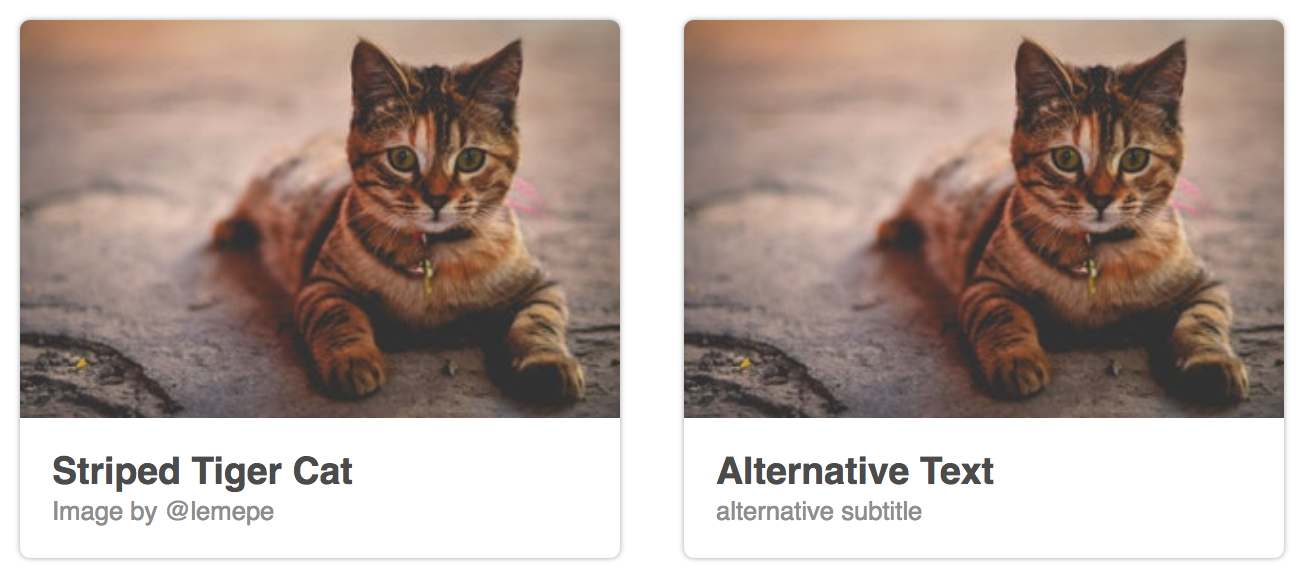
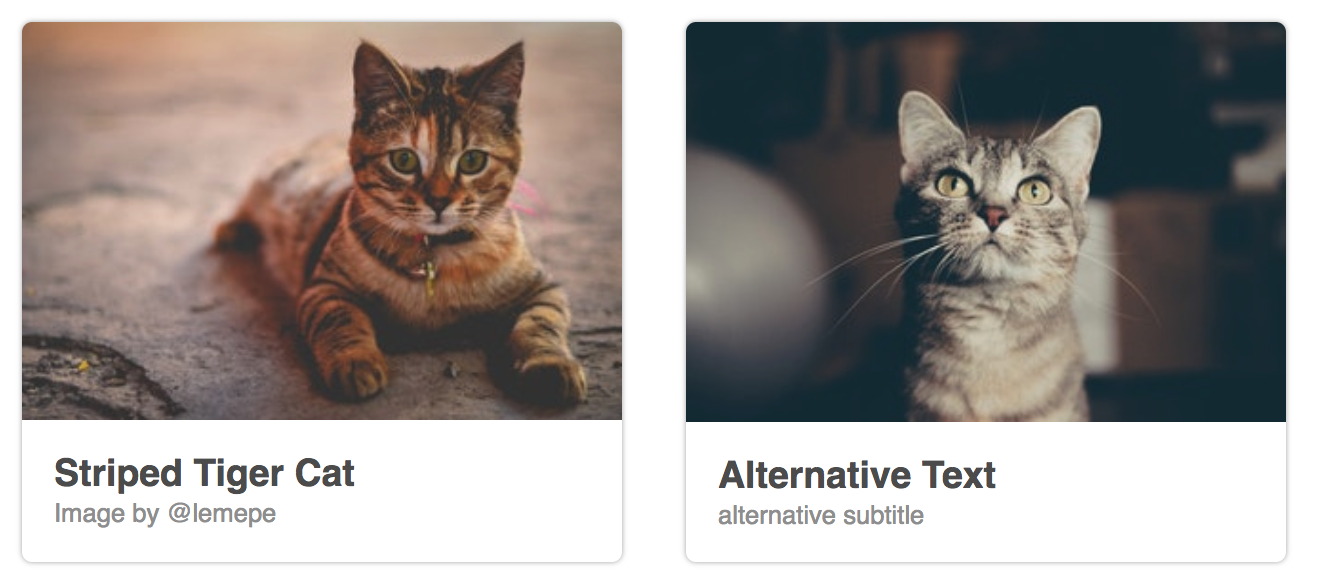
rework chapters 1-4 and update images

diff --git a/2-components.md b/2-components.md
@@ -5,19 +5,15 @@ encapsulation.
 
 We will start with a simple example component and gradually improve its functionality.
 
-## Components can be reused
-
-Let's start with a simple and fun image card example. Who doesn't like cats?
-
 {width=50%}
-![A cute cat](images/image_card.png)
+![Who doesn't like cats?](images/image_card.png)
 
 The HTML for this card component consists of a large image area and body with some text:
 
 ```html
 <div id="demo">
   <div class="image-card">
-    <img class="image-card__image" src="../../shared/cat.jpg" />
+    <img class="image-card__image" src="cat.jpg" />
     <div class="image-card__body">
       <h3 class="image-card__title">Striped Tiger Cat</h3>
       <div class="image-card__author">Image by @lemepe</div>
@@ -32,9 +28,13 @@ We use the root HTML element with the `demo` id as our element to initiate Vue:
 new Vue({ el: '#demo' })
 ```
 
-You can find the complete example on [Github](https://github.com/fdietz/vue_components_book_examples/tree/master/chapter-2/example-1).
+I> You can find the complete example on [Github](https://github.com/fdietz/vue_components_book_examples/tree/master/chapter-2/example-1).
 
-What did we achieve? We used Vue.js to render this image card. But we can't really reuse this as is. We have to turn this into a component first.
+What did we achieve? We used Vue.js to render this image card. But we can't really reuse this code as is and we don't want to copy and paste and thereby duplicating code.
+
+The solution to our problem is to turn this into a component.
+
+## Components can be reused
 
 So, let's separate the image card from the remaining Vue.js application.
 
@@ -43,7 +43,7 @@ First we introduce a template element with all the image card content:
 ```html
 <template id="template-image-card">
   <div class="image-card">
-    <img class="image-card__image" src="../../shared/cat.jpg" />
+    <img class="image-card__image" src="cat.jpg" />
     <div class="image-card__body">
       <h3>Striped Tiger Cat</h3>
       <div class="image-card__author">Image by @lemepe</div>
@@ -75,15 +75,17 @@ And then instantiated:
 new Vue({ el: '#demo' })
 ```
 
-You can find the complete example on [Github](https://github.com/fdietz/vue_components_book_examples/tree/master/chapter-2/example-2).
+I> You can find the complete example on [Github](https://github.com/fdietz/vue_components_book_examples/tree/master/chapter-2/example-2).
 
 And voila! We have two cats :-)
 
 ![Example 2](images/image_card_two_cats.png)
 
-Now, two cats are obviously better than one cat and we showed that we can have several instances of our `image-card` component on the same page.
+Now, two cats are obviously better than one cat and we showed that we can have several instances of our `image-card` component on the same page. 
 
-But still, this component is not very useful? It is just not flexible enough! It would be awesome if we could change
+We now have the means to reuse this component in our app. And if you think about it, it's actually quite remarkable that this includes our HTML, CSS and Javascript code all wrapped up in a component.
+
+But still, this component is not very useful, isn't it? It is just not flexible enough! It would be awesome if we could change
 the image and text body for each component.
 
 ## Passing data to child components as props
@@ -114,14 +116,14 @@ Vue.component('image-card', {
 });
 ```
 
-Note, how the prop `imageSrc` is written in camelCase whereas the HTML attributes is using a dash `image-src`.
+Note, how the prop `imageSrc` is written in camelCase whereas the HTML attributes is using a dash `image-src`. You can read more about `props` in the official [Vue.js Guide](https://vuejs.org/v2/guide/components-props.html).
 
 And the accompanying template uses this props in the camelCase format again:
 
 ```html
 <template id="template-image-card">
   <div class="image-card">
-    <img class="image-card__image" :src="'../../shared/'+imageSrc" />
+    <img class="image-card__image" :src="imageSrc" />
     <div class="image-card__body">
       <h3>{{heading}}</h3>
       <div class="image-card__author">{{text}}</div>
@@ -130,7 +132,7 @@ And the accompanying template uses this props in the camelCase format again:
 </template>
 ```
 
-You can find the complete example on [Github](https://github.com/fdietz/vue_components_book_examples/tree/master/chapter-2/example-3).
+I> You can find the complete example on [Github](https://github.com/fdietz/vue_components_book_examples/tree/master/chapter-2/example-3).
 
 Let's have a look at the result:
 
@@ -162,23 +164,16 @@ Components can have state using the `data` attribute:
   });
 ```
 
-Note, that `data` is returning
-a function instead of only a Javascript object, like this:
-
-```js
-data: {
-  count: 0
-}
-```
-
-This is required, so that each component instance can maintain an independent copy of the returned data.
+A> Note, that `data` is returning a function instead of only a Javascript object `data: { count: 0 }`.
+A> This is required, so that each component instance can maintain an independent copy of the returned data.
+A> Read more about this in the [Vue.js Guide](https://vuejs.org/v2/guide/components.html#data-Must-Be-a-Function).
 
 Our template uses this count:
 
 ```html
 <template id="template-image-card">
   <div class="image-card">
-      <img class="image-card__image" :src="'../../shared/'+imageSrc" />
+      <img class="image-card__image" :src="imageSrc" />
     <div class="image-card__body">
         <h3 class="image-card__heading">{{heading}}</h3>
       <div class="image-card__author">{{text}}</div>
@@ -193,23 +188,28 @@ Our template uses this count:
 </template>
 ```
 
-You can find the complete example on [Github](https://github.com/fdietz/vue_components_book_examples/tree/master/chapter-2/example-4).
+I> You can find the complete example on [Github](https://github.com/fdietz/vue_components_book_examples/tree/master/chapter-2/example-4).
+
+![Example 4](images/image_card_with_state.png)
 
 We use an SVG element to render a little heart and on the `click` event we increment the count by 1. A little count is displayed next to the heart with the current `count` value.
 
-![Example 4](images/image_card_with_state.png)
+T> If you are more interested in working with SVG, have a look in the [Vue.js Cookbook](https://vuejs.org/v2/cookbook/editable-svg-icons.html) for more information.
+
 
 Note, that each component instance has its own local state of `count` which can be changed independently from the other component's `count`.
 
 Whereas in the previous example we only encapsulated the HTML code and made it more flexible with props. We now also encapsulate some business logic to keep count.
 
-Whereas `props` are the input parameters of our component, the state is something internal to the component and is hidden from a user of our component's code. We could change the name of our variable from `count` to `clickCount` and a user of our component wouldn't even need to know. It is an implementation detail.
+Whereas `props` are the input parameters of our component, the state is something internal to the component and is hidden from a user of our component's code. We could change the name of our variable from `count` to `clickCount` and a user of our component wouldn't even need to know. This is awesome because we can keep improving our component without breakings our user's code.
 
 ## Sending messages to parents with events
 
 Now that we know how to pass data down to children and how to encapsulate state. There one thing missing: How can we get data back from a child?
 
-We can use `$emit` to send an event called `change` with data to the parent:
+In Vue.js we can emit a custom event from the component to it's parent which listens to that specific event. This event can additionally pass along data.
+
+In our example we can use `$emit` to send an event called `change` with data to the parent:
 
 ```js
 Vue.component('image-card', {
@@ -227,7 +227,9 @@ Vue.component('image-card', {
   methods: {
     handleClick() {
       this.count++;
+      // leanpub-start-insert
       this.$emit("change", this.count);
+      // leanpub-end-insert
     }
   }
 });
@@ -238,7 +240,7 @@ We defined the method `handleClick` which not only increments our `count` state,
 ```html
 <template id="template-image-card">
   <div class="image-card">
-    <img class="image-card__image" :src="'../../shared/'+imageSrc" />
+    <img class="image-card__image" :src="imageSrc" />
     <div class="image-card__body">
         <h3 class="image-card__heading">{{heading}}</h3>
       <div class="image-card__author">{{text}}</div>
@@ -280,9 +282,9 @@ new Vue({
 });
 ```
 
-You can find the complete example on [Github](https://github.com/fdietz/vue_components_book_examples/tree/master/chapter-2/example-5).
+I> You can find the complete example on [Github](https://github.com/fdietz/vue_components_book_examples/tree/master/chapter-2/example-5).
 
-Note, that the parent doesn't know about the component's internals. It just knows that there's a change event available and that the message sends the components' `count`.
+Note, that the parent doesn't know about the component's internals. It just knows that there's a change event available and that the message sends the component's `count`.
 
 ## Summary
 

diff --git a/4-component-composition-with-scoped-slots.md b/4-component-composition-with-scoped-slots.md
@@ -2,11 +2,13 @@
 
 In the previous chapter we focused on improving our components flexibility by using multiple `slots` as placeholders for our content.
 
-There's one catch though we have not discussed. The content we pass to our slot is in the context of the parent component and not the child component.
+There's one catch though we have not discussed. The content we pass to our slot is in the context of the parent component and not the child component. This sounds quite abstract, let's build an example component and investigate the problem further!
+
+## Example List
 
 Here's an example of a todo list component which renders for each item a checkbox and a name.
 
-{width=50%
+{width=50%}
 ![Example 1](/images/list.png)
 
 ```html
@@ -33,11 +35,13 @@ new Vue({
 });
 ```
 
-You can find the complete example on [Github](https://github.com/fdietz/vue_components_book_examples/tree/master/chapter-4/example-1).
+I> You can find the complete example on [Github](https://github.com/fdietz/vue_components_book_examples/tree/master/chapter-4/example-1).
 
-How can we refactor this into a reusable component? And how can be model this so the client of the component can decide how to render the list item?
+In the next step we refactor this code into a reusable list component and our goal is to leave it up to the client of the component to decide what and how to render the list item.
 
-Let's start with the implementation of a List component:
+## Refactor to List component
+
+Let's start with the implementation of the List component:
 
 ```js
 Vue.component("List", {
@@ -76,13 +80,11 @@ And now make use of our new component:
 </div>
 ```
 
-You can find the complete example on [Github](https://github.com/fdietz/vue_components_book_examples/tree/master/chapter-4/example-2).
+I> You can find the complete example on [Github](https://github.com/fdietz/vue_components_book_examples/tree/master/chapter-4/example-2).
 
-But, when trying this example we run into a Javascript error message:
+But, when trying this example we run into a Javascript error message.
 
-```text
-ReferenceError: item is not defined
-```
+E> ReferenceError: item is not defined
 
 It seems we cannot access `item` from our slot content. In fact the content we passed runs in the context of the parent and not the child component `List`.
 
@@ -127,13 +129,15 @@ Okay let's try this again:
 </div>
 ```
 
-You can find the complete example on [Github](https://github.com/fdietz/vue_components_book_examples/tree/master/chapter-4/example-3).
+I> You can find the complete example on [Github](https://github.com/fdietz/vue_components_book_examples/tree/master/chapter-4/example-3).
 
-This time we use the `scope` attribute to access the child prop `item`. In this example we called the child props `slotProps` to signify the props passed to the slot.
+This time we use the `scope` attribute and assign the name `slotProps` to it. Inside this scoped slot we can access all props passed along via this `slotProps` variable.
 
-Tip: In 2.5.0+, scope is no longer limited to the `<template>` element, but can instead be used on any element or component in the slot.
+T> In 2.5.0+, scope is no longer limited to the `<template>` element, but can instead be used on any element or component in the slot.
 
-Now that we know how to pass data along we are free to extend the list item with some new functionality with changing the List component. It would be awesome if could remove a todo item!
+## Extend the rendering of the list item
+
+Now that we know how to pass data along we are free to extend the list item with some new functionality without changing the List component. It would be awesome if we could remove a todo item!
 
 First of all we define the Vue app with a method to remove a todo item:
 
@@ -163,11 +167,13 @@ Next, we use this method when rendering the list item:
 <template scope="{item}" class="list-item">
   <input type="checkbox" v-model="item.completed" class="list-item__checkbox" />
   <div class="list-item__title">{{item.name}}</div>
-  <button @click="remove(item)" class="list-item__remove">×</button>
+  // leanpub-start-insert
+  <button @click="remove(item)" class="list-item__remove">x</button>
+  // leanpub-end-insert
 </template>
 ```
 
-You can find the complete example on [Github](https://github.com/fdietz/vue_components_book_examples/tree/master/chapter-4/example-4).
+I> You can find the complete example on [Github](https://github.com/fdietz/vue_components_book_examples/tree/master/chapter-4/example-4).
 
 We add a button with a `click` event which calls our previously defined `remove` function. That's it!
 
@@ -182,8 +188,8 @@ const { item } = slotProps;
 const item = slotProps.item;
 ```
 
-This is easier to read because we can directly access the `item` everywhere instead of always going via `slotProps.item`.
+This is easier to read because we can directly use the `item` variable instead of always going via `slotProps.item`.
 
 ## Summary
 
-In this chapter we used scoped slots to allow the parent to access data from the child. This gives us lots of new possibilities which weren't possible before. This feature is especially useful in scenarios when you want to leave the rendering of the slot content to user of the component. In our case the list component is very reusable by decoupling the rendering of the list items.
+In this chapter we used scoped slots to allow the parent to access data from the child. This gives us lots of new possibilities which weren't possible before. This feature is especially useful in scenarios where you want to leave the rendering of the slot content to the user of the component. In our case the list component is very reusable by decoupling the rendering of the list items.

diff --git a/3-component-composition-with-slots.md b/3-component-composition-with-slots.md
@@ -35,7 +35,7 @@ The `showModal` value is set to `true` on button click:
 
 Our `modal` component children consist of some example HTML heading and paragraph we'd like to show inside the modal dialog.
 
-Additionally, a `close` event is send by the modal component if the component's close button was pressed.
+Additionally, we listen to the `@close` event in case the user closes the modal dialog by pressing the close button.
 
 Let's have a look at the component:
 
@@ -54,17 +54,18 @@ Let's have a look at the component:
 </template>
 ```
 
-You can find the complete example on [Github](https://github.com/fdietz/vue_components_book_examples/tree/master/chapter-3/example-1).
+I> You can find the complete example on [Github](https://github.com/fdietz/vue_components_book_examples/tree/master/chapter-3/example-1).
 
 The `modal-body` contains a `slot` component which acts as a placeholder for our content we passed along above. It will not be visible in the browser DOM and will be replaced with our content. 
 
+{width=70%}
 ![Screenshot of Chrome Devtools Elements Tab](images/modal_dom.png)
 
 The `modal-background` class used to render a darkened overlay underneath the modal dialog. Additionally, it emits a `click` event to close the dialog. The `self` [event modifier](https://vuejs.org/v2/guide/events.html#Event-Modifiers) is used to make sure the event is only emitted when clicking the background and not when clicking the modal dialog itself.
 
 ## Named Slots
 
-In our previous example we used the "default slot" to pass along all content to our modal component. In the next example we improve the modal dialog component further by using "named slots" which enables users of the component to pass along content to multiple named slots.
+In our previous example we used the "default slot" to pass along all content to our modal component. In the next example we improve the modal dialog component further by using "named slots" which enables users of the component to inject content in multiple places.
 
 In order to become more flexible, we introduce named slots for the header, body and footer. Here is the definition of our markup:
 
@@ -99,7 +100,7 @@ The usage of these named slots is quite similar to the default slot:
 </modal>
 ```
 
-We can use whatever HTML element we want for our content and use the `slot` attribute to select the appropriate slot we want to use.
+We can use whatever HTML element we want for our content and use the `slot` attribute to select the appropriate slot we want to use. This not only includes HTML elements but also other Vue.js components.
 
 Note, that the `footer` slot is not used in this example. By default the existing slot content will be used. In our case the `footer` slot is defined like this:
 
@@ -109,7 +110,7 @@ Note, that the `footer` slot is not used in this example. By default the existin
 </slot>
 ```
 
-You can find the complete example on [Github](https://github.com/fdietz/vue_components_book_examples/tree/master/chapter-3/example-2).
+I> You can find the complete example on [Github](https://github.com/fdietz/vue_components_book_examples/tree/master/chapter-3/example-2).
 
 So, we still have our Close button as is.
 

diff --git a/1-introduction.md b/1-introduction.md
@@ -2,7 +2,7 @@
 
 ## Welcome
 
-Vue.js is a progressiv web framework for building user interfaces. It is designed to be incrementally adoptable and
+Vue.js is a progressiv web framework for building user interfaces created by Evan You. It is designed to be incrementally adoptable and
 therefore easy to pick up in existing projects. But, on the other hand capable of powering sophisticated applications.
 
 This book assumes that the reader has some basic unterstanding of Vue.js. It builds on that knowledge to give the reader
@@ -28,10 +28,13 @@ All example code can be found in the public [GitHub repository](https://github.c
 Chapter 2 will start with a high level introduction of components and their properties. I will provide the mental model for all
 the upcoming chapters.
 
-In chapter 2 we will discuss the Vue.js concept of `slots` and `scoped slots`. This chapter alone will let you tremendously
-model your application code differently by using component composition.
+In chapter 2 we will discuss the Vue.js concept of `slots` and `named slots` for component composition.
 
-Chapter 3 discusses the difference between Vue.js `scoped slots` and render props.
+Chapter 3 introduces `scoped slots` and which problems you can solve with them.
 
-Chapter 4 will introduce you to High Order components and will give you yet another possibility of composing your components
-in a functional approach.
+## Images used in this book
+
+Most images are are from [unsplash.com](unsplash.com), as for example:
+* [The cat](https://unsplash.com/photos/V7RugxejXH)
+* [Another cat](https://unsplash.com/photos/FT9SsFEXqF4)
+* [Cat 3](https://unsplash.com/photos/_FoHMYYlatI)
